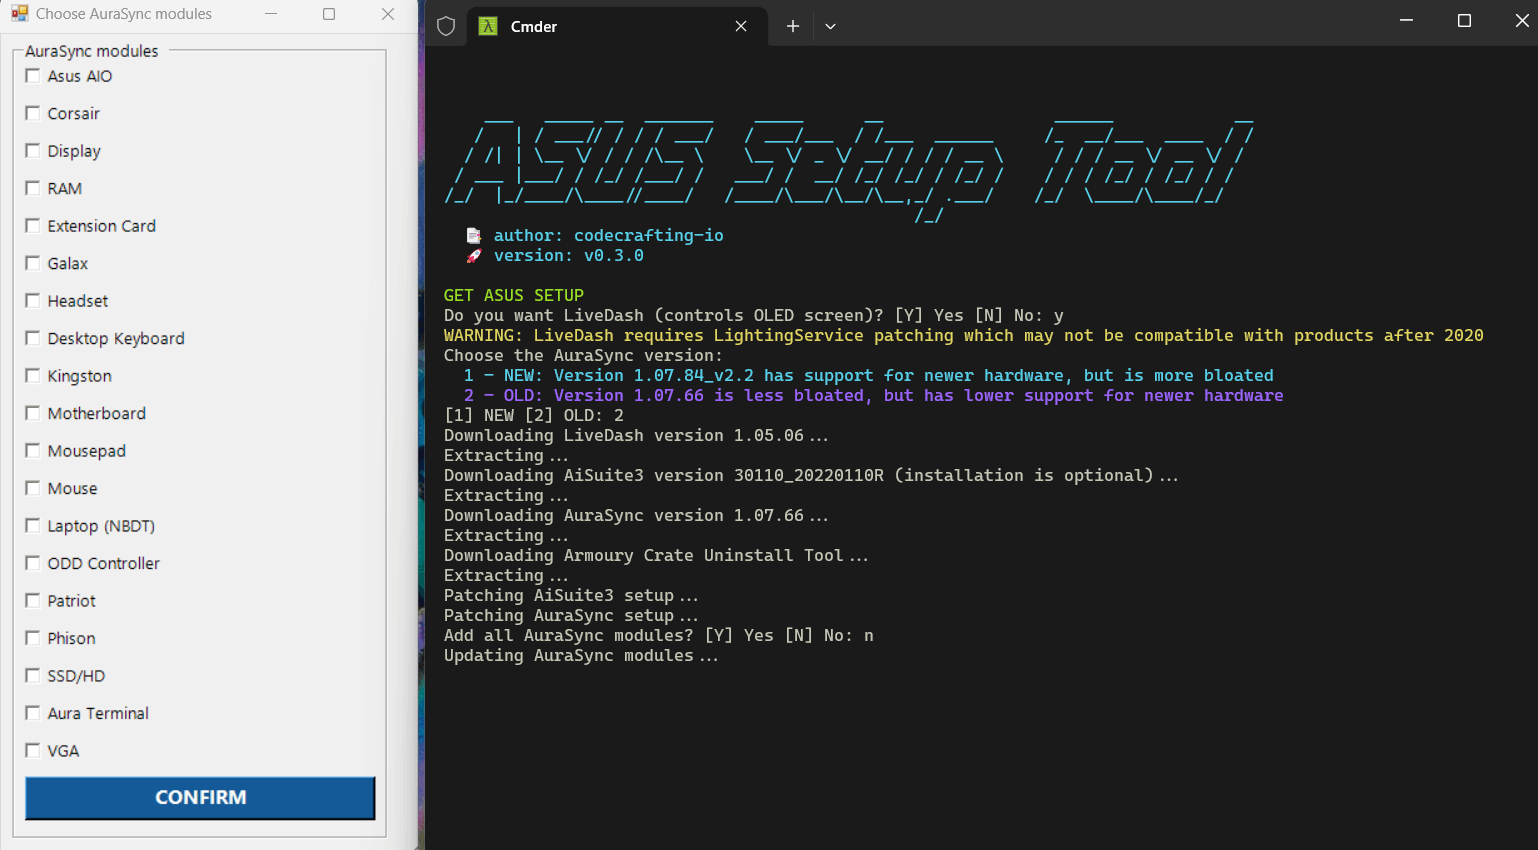
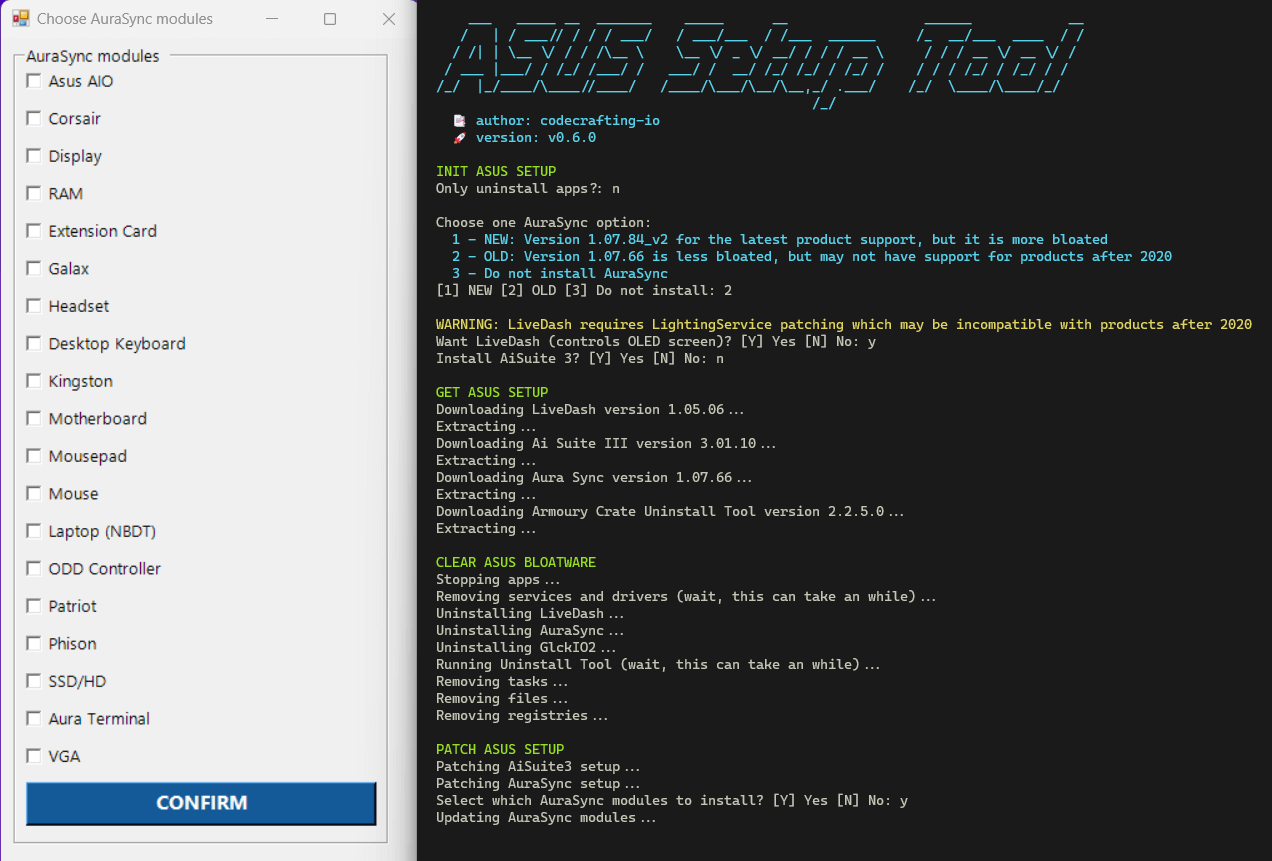
Fix #3 UninstallTool fail to run when not already downloaded

diff --git a/README.md b/README.md
@@ -13,15 +13,18 @@ This is an PowerShell script tool that manages the setup installation for the le
 - Choose which modules from Aura Sync you want.
 - Install Aura Sync, LiveDash (optional), AiSuite 3 (optional).
 
-## Instructions
+## Preparations
 
 **NOTE: Before you proceed, note that this tool is experimental, still in early stages, provided as is and may not work or require manual tweaking.**
 
 - Create a System Restore point (recommended), [Instructions Here](https://support.microsoft.com/en-us/windows/create-a-system-restore-point-77e02e2a-3298-c869-9974-ef5658ea3be9#:~:text=In%20the%20search%20box%20on,and%20then%20select%20Create%20%3E%20OK.)
-- Download [ASUS Setup Tool here](/../../archive/refs/tags/v0.5.0.zip).
+- Download [ASUS Setup Tool here](/../../archive/refs/tags/v0.6.0.zip).
 - Extract the zip contents to a folder.
 - The [Windows core insolation](https://www.makeuseof.com/core-isolation-memory-integrity-windows/#:~:text=On%20the%20left%20side%20menu%20of%20the%20Windows%20Security%20app,the%20changes%20to%20take%20effect.) can interfere with the operation of ASUS Kernel drivers, so you may have to disable it.
-- If you have a third party antivirus, you **may have to add the setup to exclusions, disable or even uninstall it**, specially if it is a Kaspersky product. After this reboot the system and then proceed. You can re-enable/re-install the antivirus later.
+- If you have a third party antivirus, you **may have to disable file and thread security check features or even uninstall it**. After this reboot the system and then proceed. You can re-enable/re-install the antivirus later.
+
+## Instructions
+
 - Right click on `setup.bat` and `run as administrator`.
 - For question prompts, `[Y] Yes [N] No` just type `Y` or `N` followed by `ENTER`
 - At this point, you should see a screen like that:
@@ -32,42 +35,39 @@ This is an PowerShell script tool that manages the setup installation for the le
 
     ![ASUS Setup Tool powershell execution policy](/Source/Images/screen2.png?raw=true)
 
-- Choose which version of AuraSync you want, by typing `1` or `2`:
-  - 1 - NEW: Version **1.07.84_v2** if you want the latest hardware support available, but this version has more bloated modules, which leads to more processes running on the system.
-  - 2 - OLD: Version **1.07.66** has a less bloated module installation, but may not have support for products launched after 2020.
-
-- Choose if you want to install LiveDash. **The installation of LiveDash requires patching LightingService, which may lead to incompatibility for products launched after 2020. This will also affect AuraSync installation.**
+- Choose `Y` for just uninstall apps, or `n` no if you also want to install. The installation will first uninstall everything.
 
     ![ASUS Setup Tool AuraSync version](/Source/Images/screen3.png?raw=true)
 
-- The apps LiveDash (if you chose), AuraSync, AiSuite 3, Armoury Uninstall Tool will be downloaded. The AiSuite3 is downloaded for correctly setting some services, but installation is optional.
-- After the download and patches applied, you should see an option to choose which AuraSync modules you want to add. Mark the checkboxes for the modules you want. AuraSync have a modular component design to control a variety of devices. By the default, the setup will install all modules even if you don't have the device. If you want a cleaner installation, you can check here which modules are relevant for your case. If you type `N` you should see the following screens:
+- Select which version of AuraSync you want, by typing `1`, `2`, `3` to no install:
+  - 1 - NEW: Version **1.07.84_v2** if you want the latest hardware support available, but this version has more bloated modules, which leads to more processes running on the system.
+  - 2 - OLD: Version **1.07.66** has a less bloated module installation, but may not have support for products launched after 2020.
+  - 3 Do not install: Use this to **not** install aura sync.
 
-    ![ASUS Setup Tool add modules](/Source/Images/screen4.png?raw=true)
-
-- Some brand specific modules is usually to control RGB Ram with AuraSync. If you don't want to use AuraSync to control them, don't check it. However if you want to control the RAM you need to check "RAM" + the specific brand module if exist.
-- The uninstallation of all ASUS products will begin. This **will remove any related ASUS Software!**. During the uninstallation, the Armoury Crate Uninstall Tool window will show up. This **process can take several minutes, please wait**.
-- After uninstallation, you should choose if you want to install the apps now. Use this if you only wanted to uninstall ASUS software.
+- Choose if you want to install LiveDash. **The installation of LiveDash requires patching LightingService, which may lead to incompatibility for products launched after 2020. This will also affect AuraSync installation.**.
+- Choose if you want to install AiSuite3. Notice that if you had AiSuite3 installed prior to executing ASUS Setup Tool, a reboot is required. You can install manually later. In this case, you can find AiSuite3 inside `Apps` folder.
+- The selected applications will be downloaded along with the Armoury Crate Uninstall Tool. AiSuite3 will be downloaded to set up some services correctly, but installation is optional. If you choose "Uninstall only", only the Uninstall Tool will be downloaded.
+- The uninstallation of all ASUS products will begin. This **will remove any related ASUS Software!**. This **process can take several minutes, please wait**.
 
     ![ASUS Setup Tool installation step](/Source/Images/screen5.png?raw=true)
 
-- Choose if you want to install AuraSync. In this step, the ASUS services are updated to configure a proper order of the dependency of each other, so they start properly. By typing `N` you can only install AiSuite3.
-- Choose if you want to install AiSuite3. Notice that if you had AiSuite3 installed prior to executing ASUS Setup Tool, a reboot is required. You can install manually later. In this case, you can find AiSuite3 inside `Apps` folder.
-- You can choose to reboot system now (recommended) or later
+- After the download and uninstall process, patches will be applied to the installation. If you chose to install AuraSync and/or LiveDash in this step, you can select which modules you want by typing `Y` to the next question. AuraSync has a modular component design to control a variety of devices. By default, the setup will install all modules even if you don't have the device. If you want a cleaner installation, you can check here which modules are relevant for your case. Some brand specific modules is usually to control RGB Ram with AuraSync. If you don't want to use AuraSync to control them, don't check it. However if you want to control the RAM you need to check "RAM" + the specific brand module if exist If you type `n` all modules will installed.
 
-    ![ASUS Setup Tool AiSuite 3 reboot](/Source/Images/screen6.png?raw=true)
+    ![ASUS Setup Tool add modules](/Source/Images/screen4.png?raw=true)
 
-- Finally, if everything went well you now have a functional installation of AuraSync, LiveDash or AiSuite 3!
+- The installation process will begin. In this step you can choose if you want let Asus services and tasks to start with Windows. By typing `N` ASUS Tasks (mostly for ASUS Update) and the services `ASUS Com Service`, `ASUS HM Com Service` (LiveDash only), `AsusCertService` and `LightingService` will be set to manual startup, ie only starting by demand. The reason behind this is to leave a minimal or no extra processes running if they don't need to. It's not necessary to leave `LightingService`, `ASUS COM Service`, `ASUS Cert Service` running all the time to keep your RGB settings for many type of devices. Note that when services are set to manual, the applications will take longer to start.
 
-    ![ASUS Setup Tool Finished](/Source/Images/screen7.png?raw=true)
+    ![ASUS Setup Tool Finished](/Source/Images/screen6.png?raw=true)
 
-    ![Yea Baby](https://www.memesmonkey.com/images/memesmonkey/ba/ba0418a6baea139993fc38eb95f5da04.jpeg)
+Finally, if everything went well you now have a functional installation of AuraSync, LiveDash or AiSuite 3
 
-## Automatic set of profiles, and services tip
+![ASUS Setup Tool Finished](/Source/Images/screen7.png?raw=true)
 
-If you create a folder "Profiles" inside "Patches" and put the files `LastProfile.xml` and `OledLastProfile.xml` from previous `LightingService` installations, the ASUS Setup Tool will set those profiles after the installation. Also, a new option will appear to set "Set services to manual startup and disable tasks". This will disable ASUS Tasks (mostly for ASUS Update) and update the services `ASUS Com Service`, `ASUS HM Com Service` (LiveDash only), `AsusCertService` and `LightingService` to manual startup.
+![Yea Baby](https://www.memesmonkey.com/images/memesmonkey/ba/ba0418a6baea139993fc38eb95f5da04.jpeg)
 
-The reason behind this is to leave a minimal or no extra processes running if they don't need to. It's not necessary to leave `LightingService`, `ASUS COM Service`, `ASUS Cert Service` running all the time to keep your RGB settings. So the automatic set of profiles already does that for you. If you don't have the profiles at hand before installation, you can [open the services](https://www.wikihow.com/Open-Windows-Services), go to properties of each service and set the initialization type for manual. Once you were set, for most RGB configurations, those services are only needed to run again if you want to change the lighting or after a power loss. Note that when services are set to manual, the applications will take longer to start.
+## Automatic set of profiles
+
+If you create a folder "Profiles" inside "Patches" and put the files `LastProfile.xml` and `OledLastProfile.xml` from previous `LightingService` installations, the ASUS Setup Tool will set those profiles after the installation. Those profiles can be located in `%PROGRAMFILES(X86%)\LightingService` folder after installation and configuration.
 
 ## Known Issues
 

diff --git a/CHANGELOG.md b/CHANGELOG.md
@@ -6,6 +6,8 @@
 - Improved 'CLEAR ASUS BLOATWARE' step
 - Added uninstall only option
 - UninstallTool progress bar window is now hidden due to version 2.2.5.0
+- Fixed a error when UninstallTool is not downloaded or extracted
+- Set services and tasks to start with Windows question not attached to automatic profiles
 
 ## v0.5.1
 
